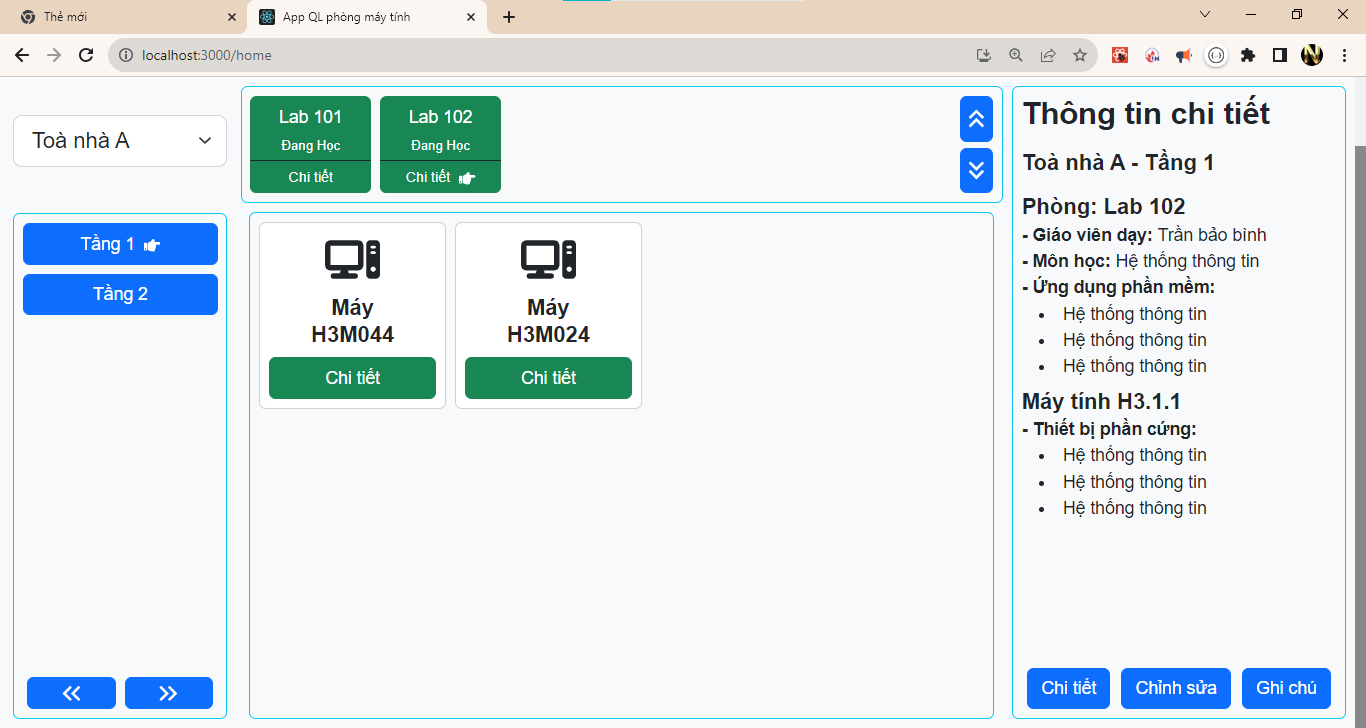
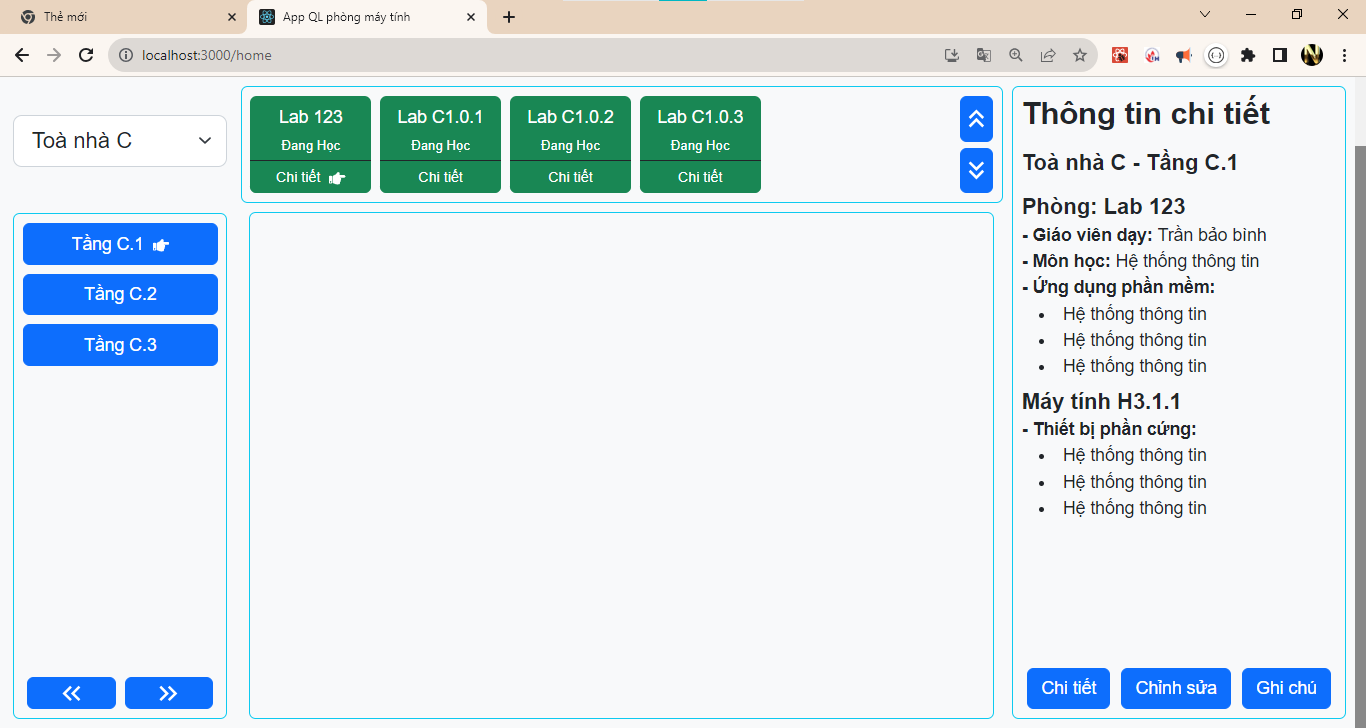
edit Pagehome add handleBtnTang()

diff --git a/src/redux/reducers/homeReducer.jsx b/src/redux/reducers/homeReducer.jsx
@@ -29,15 +29,18 @@ const homeReducer = createSlice({
     setArrTangHomeAction: (state, action) => {
       state.arrTangH = action.payload;
     },
-    setObjThongTinAction: (state, action) => {
-      let { 
-        arrTangH,
-        objThongTin,
-        arrPhongH,
-        arrMayTinh } = action.payload;
+    setObjThongTinByToaNhaAction: (state, action) => {
+      let { arrTangH, objThongTin, arrPhongH, arrMayTinh } = action.payload;
 
       state.objThongTin = objThongTin;
       state.arrTangH = arrTangH;
+      state.arrPhongH = arrPhongH;
+      state.arrMayTinhH = arrMayTinh;
+    },
+    setObjThongTinByTangAction: (state, action) => {
+      let { objThongTin, arrPhongH, arrMayTinh } = action.payload;
+
+      state.objThongTin = objThongTin;
       state.arrPhongH = arrPhongH;
       state.arrMayTinhH = arrMayTinh;
     },
@@ -48,14 +51,70 @@ export const {
   setObjPhongFirstAction,
   setArrToaNhaHomeAction,
   setArrTangHomeAction,
-  setObjThongTinAction,
+  setObjThongTinByToaNhaAction,
+  setObjThongTinByTangAction,
 } = homeReducer.actions;
 export default homeReducer.reducer;
 
 /**
- *
+ * thay doi data trang home khi click ở btn Tang
  * */
+export const setObjThongTinByTang = (valTang) => {
+  // valTang = {} tang duoc chon
+  return async (dispatch) => {
+    // phong: { maPhong,tenPhong,moTa},
+    let objThongTin = {
+      phong: {},
+      tang: valTang,
+      mayTinh: {},
+      arrPhanMem: [],
+      giaoVien: {},
+      nhanVien: {},
+      monHoc: {},
+    };
+    //
+    let arrPhongH = [];
+    let arrMayTinh = [];
 
+    //
+    console.log("Chua co api lay list Phong theo maTang");
+    let resultArrPhong = await http.get("/DSPhongMay");
+
+    // duyet tim phong trong ds co maTang dang chonj
+    arrPhongH = resultArrPhong.data.filter((item) => {
+      return item.tang.maTang === objThongTin.tang.maTang;
+    });
+
+    if (arrPhongH.length !== 0) {
+      let { maPhong, tenPhong, moTa, mayTinhs } = arrPhongH[0];
+      // gans gtri phong dau tien vao obj gtri chon
+      objThongTin = {
+        ...objThongTin,
+        phong: { maPhong, tenPhong, moTa },
+      };
+      // arr may Tinh
+      if (mayTinhs.length !== 0) {
+        // gan ds may tinh vao arr
+        // ds may tinh nay pha thuoc ma phong duoc chon
+        arrMayTinh = mayTinhs;
+      }
+    }
+
+    //
+    //
+    dispatch(
+      setObjThongTinByTangAction({
+        objThongTin,
+        arrPhongH,
+        arrMayTinh,
+      })
+    );
+  };
+};
+
+/**
+ * thay doi data trang home khi click ở select Toa nha
+ * */
 export const setObjThongTinByToaNha = (idSelect) => {
   // idSelect == maToaNha
   return async (dispatch) => {
@@ -93,28 +152,26 @@ export const setObjThongTinByToaNha = (idSelect) => {
       if (arrPhongH.length !== 0) {
         let { maPhong, tenPhong, moTa, mayTinhs } = arrPhongH[0];
         // gans gtri phong dau tien vao obj gtri chon
-        objThongTin = { 
-          ...objThongTin, 
+        objThongTin = {
+          ...objThongTin,
           phong: { maPhong, tenPhong, moTa },
         };
         // arr may Tinh
-        if(mayTinhs.length !== 0)
-        {
+        if (mayTinhs.length !== 0) {
           // gan ds may tinh vao arr
           // ds may tinh nay pha thuoc ma phong duoc chon
-          arrMayTinh = mayTinhs ;
+          arrMayTinh = mayTinhs;
         }
       }
-
     }
     //
     //
     dispatch(
-      setObjThongTinAction({
+      setObjThongTinByToaNhaAction({
         arrTangH,
         objThongTin,
         arrPhongH,
-        arrMayTinh
+        arrMayTinh,
       })
     );
   };

diff --git a/src/components/layoutHome/ComponentToaNhaAndTang.jsx b/src/components/layoutHome/ComponentToaNhaAndTang.jsx
@@ -5,7 +5,7 @@ import {
   MdKeyboardDoubleArrowLeft,
 } from "react-icons/md";
 import { useDispatch, useSelector } from "react-redux";
-import { setObjThongTinByToaNha } from "../../redux/reducers/homeReducer";
+import { setObjThongTinByTang, setObjThongTinByToaNha } from "../../redux/reducers/homeReducer";
 
 export default function ComponentToaNhaAndTang() {
 
@@ -23,6 +23,9 @@ export default function ComponentToaNhaAndTang() {
   const handleChangeToaNha = (e) => {
     dispatch(setObjThongTinByToaNha(e.target.value));
   };
+  const handleBtnTang = (val) => {
+    dispatch(setObjThongTinByTang(val));
+  }
 
   // render
   const renderToaNha = () => {
@@ -64,6 +67,7 @@ export default function ComponentToaNhaAndTang() {
             type="button"
             key={index}
             className="btn btn-primary  mx-2 mt-2"
+            onClick={() => handleBtnTang(item)}
           >
             {item.tenTang}
             <FaHandPointRight className="ms-2" size={15} />
@@ -76,6 +80,7 @@ export default function ComponentToaNhaAndTang() {
           type="button"
           key={index}
           className="btn btn-primary  mx-2 mt-2"
+          onClick={() => {handleBtnTang(item)}}
         >
           {item.tenTang}
         </button>
